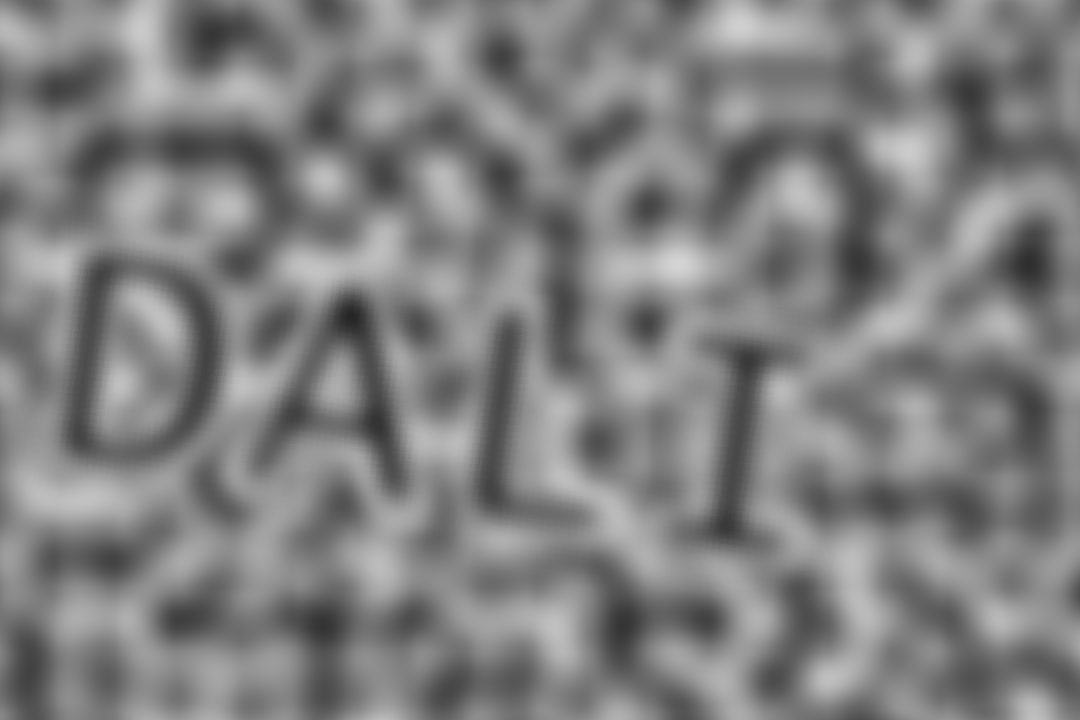
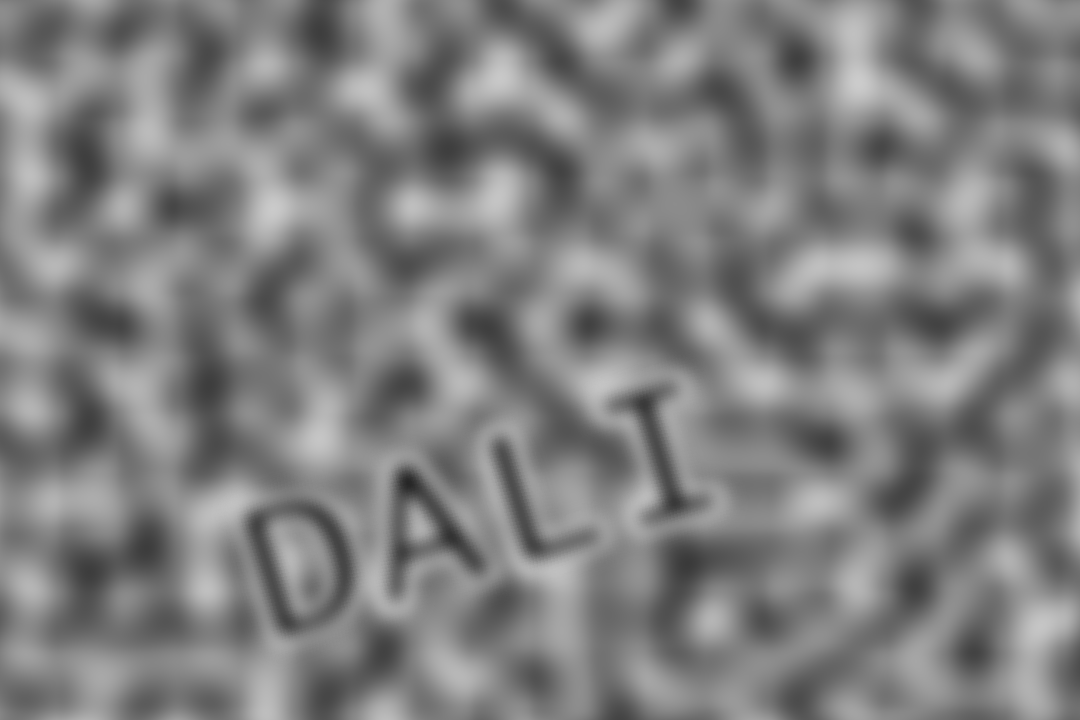
add text animation

diff --git a/untitled0.py b/untitled0.py
@@ -12,7 +12,7 @@ pygame.init()
 # Constants
 WIDTH, HEIGHT = 1920, 1080
 NUM_PARTICLES = 4000
-MICROPHONE_THRESHOLD = 1# Adjust as needed
+MICROPHONE_THRESHOLD = 0.5# Adjust as needed
 
 # Create a Pygame screen
 screen = pygame.display.set_mode((WIDTH, HEIGHT))
@@ -21,7 +21,8 @@ pygame.display.set_caption("Particle Visualization")
 # Initialize particles
 particles = [(random.randint(0, WIDTH), random.randint(0, HEIGHT)) for _ in range(NUM_PARTICLES)]
 images=[]
-
+current_word=""
+is_word_detected = False
 for i in range(0,10):
     name = 'output/output_image_'+str(i)+'.png'
     image = pygame.image.load(name).convert()
@@ -45,41 +46,63 @@ def audio_callback(indata, frames, time, status):
         print(status, flush=True)
     mic_data.extend(indata[:, 0])  # Extract the left channel data
 
-sd.InputStream(callback=audio_callback, channels=2, dtype=np.float32, samplerate=44000).start()
+sd.InputStream(callback=audio_callback, channels=2, dtype=np.float32, samplerate=8000).start()
 
 running = True
 while running:
     for event in pygame.event.get():
         if event.type == QUIT:
             running = False
+        if event.type == pygame.KEYDOWN:
+         # Check for a specific word, for example, "hello"
+             angle = random.uniform(-50, 50)
+             key = event.unicode
+             font = pygame.font.Font(None, random.randint(20, 180))
+             text = font.render(key.lower() ,True, (0, 0, 0),(60,100, 60))
+             rotated_text = pygame.transform.rotate(text, angle)
+
+             # Get a random position within the screen boundaries
+             x = random.randint(0, WIDTH - rotated_text.get_width())
+             y = random.randint(0, HEIGHT - rotated_text.get_height())
+             # Display the rotated text on the screen
+             screen.blit(rotated_text, (x, y))
+             current_word += event.unicode.lower()
+             if "dali" in current_word:
+                 print("done")
+                 is_word_detected = True
+                 current_word=""
     # Create a background color with reduced alpha value (e.g., 200 for semi-transparency)
     rcolor = random.randint(10, 25)
     gcolor = random.randint(5, 20)
     bcolor = random.randint(6, 20)
     background_color = (rcolor, gcolor, bcolor)
-    alpha_value = 10
+    alpha_value = 50
     # Set the alpha value (transparency)
     # Create a new surface with the desired background color and alpha
     background_surface = pygame.Surface(screen.get_size(), pygame.SRCALPHA)
     pygame.draw.rect(background_surface, background_color + (alpha_value,), (0, 0, WIDTH, HEIGHT))
     # Blit the background surface onto the main screen
     screen.blit(background_surface, (0, 0))
+    
 
     if mic_data:
-        mic_level = mic_data[-1]*150
+        mic_level = mic_data[-1]*200
     else:
         mic_level = 0.0
 
-    for p in range(NUM_PARTICLES):
+    for p in range(len(particles)):
+     if p < len(particles):
         x, y = particles[p]
-
+     else :
+         break
+     if is_word_detected == False :
         if mic_level> MICROPHONE_THRESHOLD :
             i= random.randint(0,9) 
             if not (0 < x < WIDTH) or not (0 < y <= HEIGHT):
                 x, y = random.randint(0, WIDTH), random.randint(0, HEIGHT)
             angle = random.uniform(0, 2 * 3.14159)
-            x += mic_level * 2  * math.cos(angle)
-            y += mic_level * 2* math.sin(angle)
+            x += mic_level * 5  * math.cos(angle)
+            y += mic_level * 5 * math.sin(angle)
               
             # Draw particles with random colors
             particles[p]= (x,y)
@@ -95,13 +118,23 @@ while running:
             # Sample the grayscale value from the image at the normalized positions
             gray_value = images[i].get_at((int(normalized_x * image.get_width()), int(normalized_y * image.get_height()))).r / 255.0
             #gray_value = image.get_at((int(normalized_x * image.get_width()), int(normalized_y * image.get_height()))).r / 255.0
-            a =  4.525* math.pi * gray_value
-            x += 1* math.cos(a)
-            y += 1* math.sin(a)
+            a =  7* math.pi * gray_value
+            x += 3* math.cos(a)
+            y += 3* math.sin(a)
             particles[p]= (x,y)
             pygame.draw.circle(screen, color, (int(x), int(y)), 1.2)
-
+     else :
+         dis=math.sqrt(math.pow(HEIGHT/2 - y,2)+math.pow(WIDTH/2 - x,2))
+         dis=10 +1/dis
+         a = math.atan2(HEIGHT/2 - y, WIDTH/2 - x)
+         x += dis* math.cos(a)
+         y += dis* math.sin(a)
+         particles[p]= (x,y)
+         pygame.draw.circle(screen, color, (int(x), int(y)), 1)
+         if random.randint(0, 100)<5:
+             particles.pop(p)
+         
     pygame.display.flip()
-    clock.tick(80)
+    clock.tick(60)
 
 pygame.quit()

diff --git a/pic genreation.py b/pic genreation.py
@@ -31,11 +31,11 @@ for i in range(NUM_IMAGES):
     noise_texture_image = pygame.image.load(os.path.join(noise_texture_dir, noise_texture_file))
 
     # Random position
-    x = random.randint(-100,50)
-    y = random.randint(-200,0)
+    x = random.randint(-100,150)
+    y = random.randint(-200 ,100)
     angle = random.uniform(-20, 20)
     # Random size
-    scale_factor = random.uniform(0.9, 1.2)
+    scale_factor = random.uniform(0.5, 0.8)
     new_width = int(code_image.get_width() * scale_factor)
     new_height = int(code_image.get_height() * scale_factor)
 
